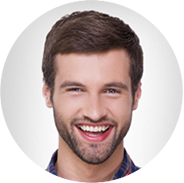
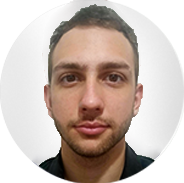
happy clients e prices

diff --git a/home.html b/home.html
@@ -257,37 +257,91 @@
 
             <div class="slide">
               <div class="slideArea">
-                xxx
+                <img class=".section-team--avatar" src="./media/mulher1.png" alt="foto">
+                <div class="section-team--name">Jane Doe</div>
+                <div class="section-team--role">Master Mind</div>
+                <div class="section-team--social">
+                  <a href=""><img src="./assets/images/facebook.png" alt="facebook"></a>
+                  <a href=""><img src="./assets/images/googleplus.png" alt="googleplus"></a>
+                  <a href=""><img src="./assets/images/linkedin.png" alt="linkedin"></a>
+                  <a href=""><img src="./assets/images/pinterest.png" alt="pinterest"></a>
+                  <a href=""><img src="./assets/images/twitter.png" alt="twitter"></a>
+                </div>
               </div>
             </div>
 
             <div class="slide">
               <div class="slideArea">
-                xxx
+                <img class=".section-team--avatar" src="./media/homem1.png" alt="foto">
+                <div class="section-team--name">Yago Russo</div>
+                <div class="section-team--role">Front-End Dev</div>
+                <div class="section-team--social">
+                  <a href=""><img src="./assets/images/facebook.png" alt="facebook"></a>
+                  <a href=""><img src="./assets/images/googleplus.png" alt="googleplus"></a>
+                  <a href=""><img src="./assets/images/linkedin.png" alt="linkedin"></a>
+                  <a href=""><img src="./assets/images/pinterest.png" alt="pinterest"></a>
+                  <a href=""><img src="./assets/images/twitter.png" alt="twitter"></a>
+                </div>
               </div>
             </div>
 
             <div class="slide">
               <div class="slideArea">
-                xxx
+                <img class=".section-team--avatar" src="./media/mulher2.png" alt="foto">
+                <div class="section-team--name">Anna Johns</div>
+                <div class="section-team--role">CEO</div>
+                <div class="section-team--social">
+                  <a href=""><img src="./assets/images/facebook.png" alt="facebook"></a>
+                  <a href=""><img src="./assets/images/googleplus.png" alt="googleplus"></a>
+                  <a href=""><img src="./assets/images/linkedin.png" alt="linkedin"></a>
+                  <a href=""><img src="./assets/images/pinterest.png" alt="pinterest"></a>
+                  <a href=""><img src="./assets/images/twitter.png" alt="twitter"></a>
+                </div>
               </div>
             </div>
 
             <div class="slide">
               <div class="slideArea">
-                xxx
+                <img class=".section-team--avatar" src="./media/homem2.png" alt="foto">
+                <div class="section-team--name">John Doe</div>
+                <div class="section-team--role">Employee</div>
+                <div class="section-team--social">
+                  <a href=""><img src="./assets/images/facebook.png" alt="facebook"></a>
+                  <a href=""><img src="./assets/images/googleplus.png" alt="googleplus"></a>
+                  <a href=""><img src="./assets/images/linkedin.png" alt="linkedin"></a>
+                  <a href=""><img src="./assets/images/pinterest.png" alt="pinterest"></a>
+                  <a href=""><img src="./assets/images/twitter.png" alt="twitter"></a>
+                </div>
               </div>
             </div>
 
             <div class="slide">
               <div class="slideArea">
-                xxx
+                <img class=".section-team--avatar" src="./media/homem2.png" alt="foto">
+                <div class="section-team--name">John Doe</div>
+                <div class="section-team--role">Employee</div>
+                <div class="section-team--social">
+                  <a href=""><img src="./assets/images/facebook.png" alt="facebook"></a>
+                  <a href=""><img src="./assets/images/googleplus.png" alt="googleplus"></a>
+                  <a href=""><img src="./assets/images/linkedin.png" alt="linkedin"></a>
+                  <a href=""><img src="./assets/images/pinterest.png" alt="pinterest"></a>
+                  <a href=""><img src="./assets/images/twitter.png" alt="twitter"></a>
+                </div>
               </div>
             </div>
 
             <div class="slide">
               <div class="slideArea">
-                xxx
+                <img class=".section-team--avatar" src="./media/homem2.png" alt="foto">
+                <div class="section-team--name">John Doe</div>
+                <div class="section-team--role">Employee</div>
+                <div class="section-team--social">
+                  <a href=""><img src="./assets/images/facebook.png" alt="facebook"></a>
+                  <a href=""><img src="./assets/images/googleplus.png" alt="googleplus"></a>
+                  <a href=""><img src="./assets/images/linkedin.png" alt="linkedin"></a>
+                  <a href=""><img src="./assets/images/pinterest.png" alt="pinterest"></a>
+                  <a href=""><img src="./assets/images/twitter.png" alt="twitter"></a>
+                </div>
               </div>
             </div>
 
@@ -303,6 +357,115 @@
 
       </div>
     </section>
+    <section class="default light testimonials">
+      <div class="section-title">Happy Clients</div>
+      <div class="section-desc">Client Reviews</div>
+      <div class="section-body">
+          <div class="section-testimonials">
+              <div class="sliders" style="margin-left:0;">
+                  <div class="slide">
+                      <div class="slidearea">
+                          <img class="section-testimonials--avatar" src="media/homem2.png" />
+                          <div class="section-testimonials--name">John Doe</div>
+                          <div class="section-testimonials--role">Head of PR Department</div>
+                          <img class="section-testimonials--quoteimg" src="assets/images/quote.png" />
+                          <div class="section-testimonials--quote">Lorem ipsum dolor sit amet, consectetur adipiscing elit. Sed vel eros vitae erat condimentum viverra a nec lacus. Maecenas eros lectus, rhoncus vel dictum vel, dignissim eget ligula. Vestibulum id tempus quam, sed pellentesque quam.</div>
+                      </div>
+                  </div><div class="slide">
+                      <div class="slidearea">
+                          <img class="section-testimonials--avatar" src="media/homem2.png" />
+                          <div class="section-testimonials--name">John Doe</div>
+                          <div class="section-testimonials--role">Head of PR Department</div>
+                          <img class="section-testimonials--quoteimg" src="assets/images/quote.png" />
+                          <div class="section-testimonials--quote">Lorem ipsum dolor sit amet, consectetur adipiscing elit. Sed vel eros vitae erat condimentum viverra a nec lacus. Maecenas eros lectus, rhoncus vel dictum vel, dignissim eget ligula. Vestibulum id tempus quam, sed pellentesque quam.</div>
+                      </div>
+                  </div><div class="slide">
+                      <div class="slidearea">
+                          <img class="section-testimonials--avatar" src="media/homem2.png" />
+                          <div class="section-testimonials--name">John Doe</div>
+                          <div class="section-testimonials--role">Head of PR Department</div>
+                          <img class="section-testimonials--quoteimg" src="assets/images/quote.png" />
+                          <div class="section-testimonials--quote">Lorem ipsum dolor sit amet, consectetur adipiscing elit. Sed vel eros vitae erat condimentum viverra a nec lacus. Maecenas eros lectus, rhoncus vel dictum vel, dignissim eget ligula. Vestibulum id tempus quam, sed pellentesque quam.</div>
+                      </div>
+                  </div>
+              </div>
+              <div class="sliders-pointers">
+                  <div class="pointer active"></div>
+                  <div class="pointer"></div>
+                  <div class="pointer"></div>
+              </div>
+          </div>
+      </div>
+  </section>
+  <section class="trademarks">
+    <img src="./media/empresa1.png" alt="trademark">
+    <img src="./media/empresa2.png" alt="trademark">
+    <img src="./media/empresa3.png" alt="trademark">
+    <img src="./media/empresa4.png" alt="trademark">
+    <img src="./media/empresa5.png" alt="trademark">
+    <img src="./media/empresa6.png" alt="trademark">
+  </section>
+  <section class="default light">
+    <div class="section-title">Price</div>
+    <div class="section-desc">Pricing Table</div>
+    <div class="section-body">
+      <div class="section-prices">
+
+        <div class="section-price">
+          <h2>Express</h2>
+          <h1>$ 9.99</h1>
+          <span>/Month</span>
+          <ul>
+            <li>Tracking Issues<br>...</li>
+            <li>Tracking Issues<br>...</li>
+            <li>Tracking Issues<br>...</li>
+            <li>Tracking Issues<br>...</li>
+          </ul>
+          <a href="" class="button black">Choose</a>
+        </div>
+
+        <div class="section-price">
+          <h2>Express</h2>
+          <h1>$ 9.99</h1>
+          <span>/Month</span>
+          <ul>
+            <li>Tracking Issues<br>...</li>
+            <li>Tracking Issues<br>...</li>
+            <li>Tracking Issues<br>...</li>
+            <li>Tracking Issues<br>...</li>
+          </ul>
+          <a href="" class="button black">Choose</a>
+        </div>
+
+        <div class="section-price">
+          <h2>Express</h2>
+          <h1>$ 9.99</h1>
+          <span>/Month</span>
+          <ul>
+            <li>Tracking Issues<br>...</li>
+            <li>Tracking Issues<br>...</li>
+            <li>Tracking Issues<br>...</li>
+            <li>Tracking Issues<br>...</li>
+          </ul>
+          <a href="" class="button black">Choose</a>
+        </div>
+
+        <div class="section-price">
+          <h2>Express</h2>
+          <h1>$ 9.99</h1>
+          <span>/Month</span>
+          <ul>
+            <li>Tracking Issues<br>...</li>
+            <li>Tracking Issues<br>...</li>
+            <li>Tracking Issues<br>...</li>
+            <li>Tracking Issues<br>...</li>
+          </ul>
+          <a href="" class="button black">Choose</a>
+        </div>
+
+      </div>
+    </div>
+  </section>
 
   </main>
   <footer>

diff --git a/assets/css/style.css b/assets/css/style.css
@@ -26,6 +26,9 @@ body{
   margin-top: 20px;
   border-radius: 999px;
 }
+.button.black{
+  background-color: #000;
+}
 
 header{
   height: 100px;
@@ -321,7 +324,8 @@ justify-content: center;
   height: 100%;
   align-items: center;
   justify-content: center;
-  color: #fff;
+  color: #000;
+  padding: 30px;
 }
 .section-team .sliders-pointers{
   margin-top: 30px;
@@ -340,4 +344,155 @@ justify-content: center;
 }
 .section-team .pointer.active{
   background-color: var(--primary);
+}
+.section-team--avatar{
+  width: 140px;
+  height: auto;
+}
+.section-team--name{
+  text-transform: uppercase;
+  font-weight: 600;
+  font-size: 17px;
+  margin-top: 30px;
+}
+.section-team--role{
+  font-size: 14px;
+  color: #999;
+  margin-top: 5px;
+}
+.section-team--social{
+  display: flex;
+  margin-top: 20px;
+}
+.section-team--social a{
+  display: inline-flex;
+  justify-content: center;
+  align-items: center;
+  width: 25px;
+  height: 25px;
+  margin: 3px;
+  border-radius: 999px;
+  background-color: #ccc;
+}
+.section-team--social a:hover{
+  background-color: var(--primary);
+}
+
+.testimonials .section-body {
+  max-width:initial;
+}
+.section-testimonials {
+  overflow:hidden;
+}
+.section-testimonials .sliders {
+  width:1000vw;
+  height:100%;
+}
+.section-testimonials .slide {
+  width:100vw;
+  height:100%;
+  display:inline-block;
+}
+.section-testimonials .slidearea {
+  display:flex;
+  flex-direction:column;
+  height:100%;
+  justify-content: center;
+  align-items:center;
+}
+
+.section-testimonials--avatar {
+  width:100px;
+}
+.section-testimonials--name {
+  font-weight: bold;
+  font-size:16px;
+  margin-top:20px;
+}
+.section-testimonials--role {
+  font-size:14px;
+}
+.section-testimonials--quoteimg {
+  width:20px;
+  margin-top:30px;
+}
+.section-testimonials--quote {
+  margin-top:10px;
+  font-size:13px;
+  max-width:700px;
+  color:#555;
+  text-align:center;
+  line-height:25px;
+  margin-left:30px;
+  margin-right:30px;
+}
+.section-testimonials .sliders-pointers {
+  width:100vw;
+  height:20px;
+  display:flex;
+  justify-content: center;
+  align-items: center;
+  margin-top:40px;
+}
+.section-testimonials .pointer {
+  width:15px;
+  height:15px;
+  border:2px solid #B28756;
+  border-radius:8px;
+  margin-left:5px;
+  margin-right:5px;
+  cursor:pointer;
+}
+.section-testimonials .pointer.active {
+  background-color:#B28756;
+}
+
+.trademarks{
+  display: flex;
+  justify-content: center;
+  align-items: center;
+  border-top: 1px solid #ddd;
+  border-bottom: 1px solid #ddd;
+}
+.trademarks img{
+  padding: 40px;
+}
+
+.section-prices{
+  display: flex;
+  justify-content: center;
+  align-items: center;
+  flex-wrap: wrap;
+}
+.section-price{
+  display: flex;
+  justify-content: center;
+  align-items: center;
+  flex-direction: column;
+  margin: 5px;
+  padding: 25px 75px;
+  background-color: #fff;
+}
+.section-price ul,
+.section-price li{
+  list-style: none;
+}
+.section-price h2{
+  text-transform: uppercase;
+  font-weight: 600;
+  font-size: 14px;
+  margin-bottom: 7px;
+}
+.section-price h1{
+  font-weight: bold;
+  font-size: 28px;
+}
+.section-price span{
+  color: #333;
+  text-transform: uppercase;
+  margin-bottom: 14px;
+}
+.section-price li{
+  margin: 5px;
+  text-align: center;
 }
